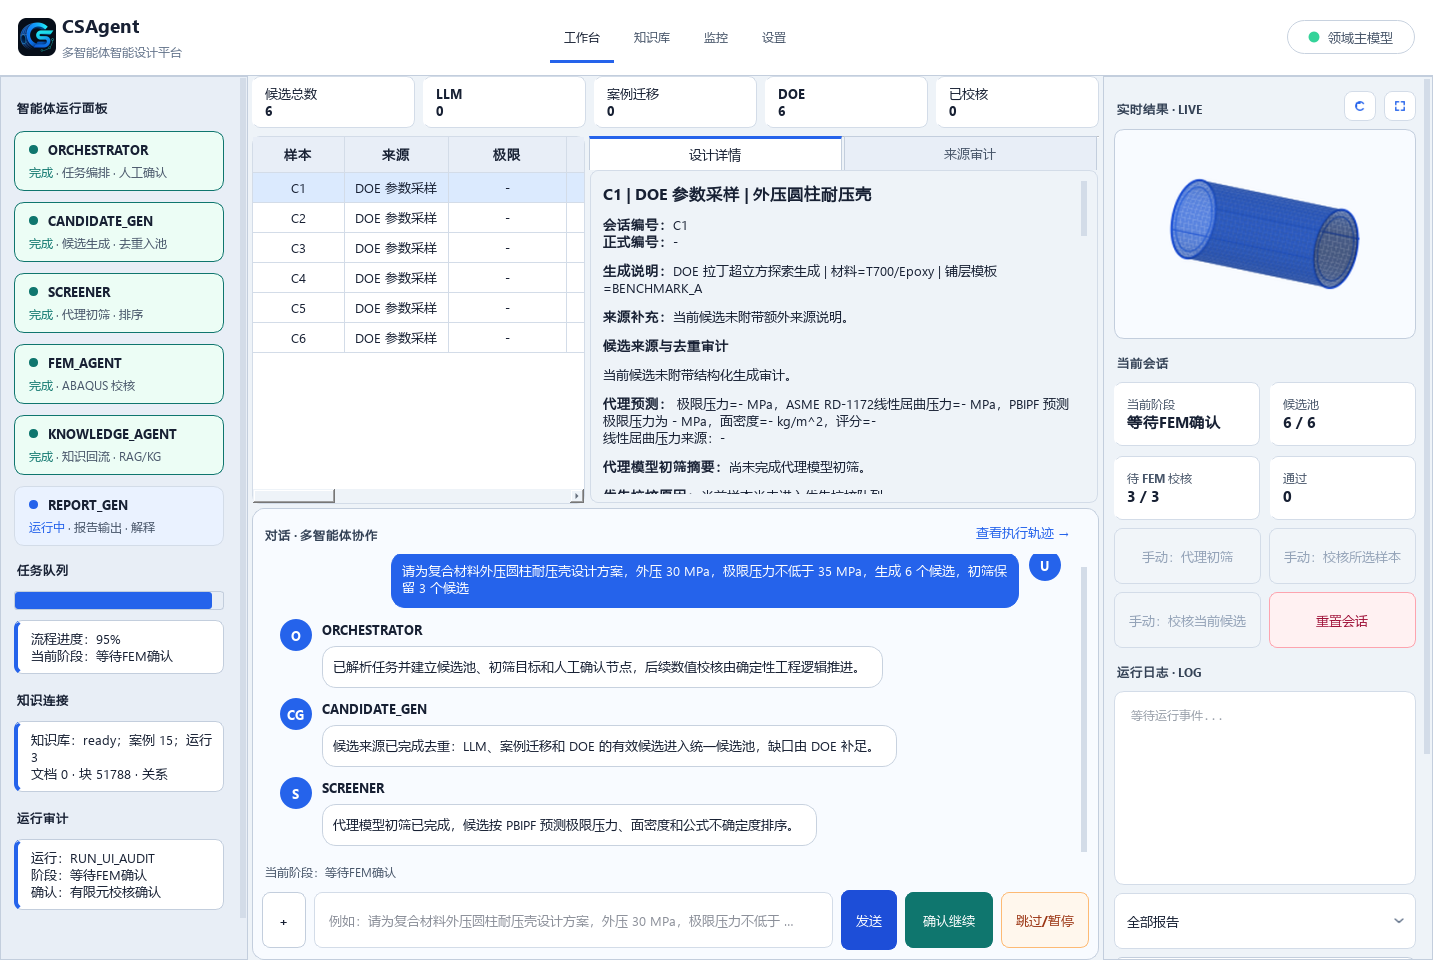
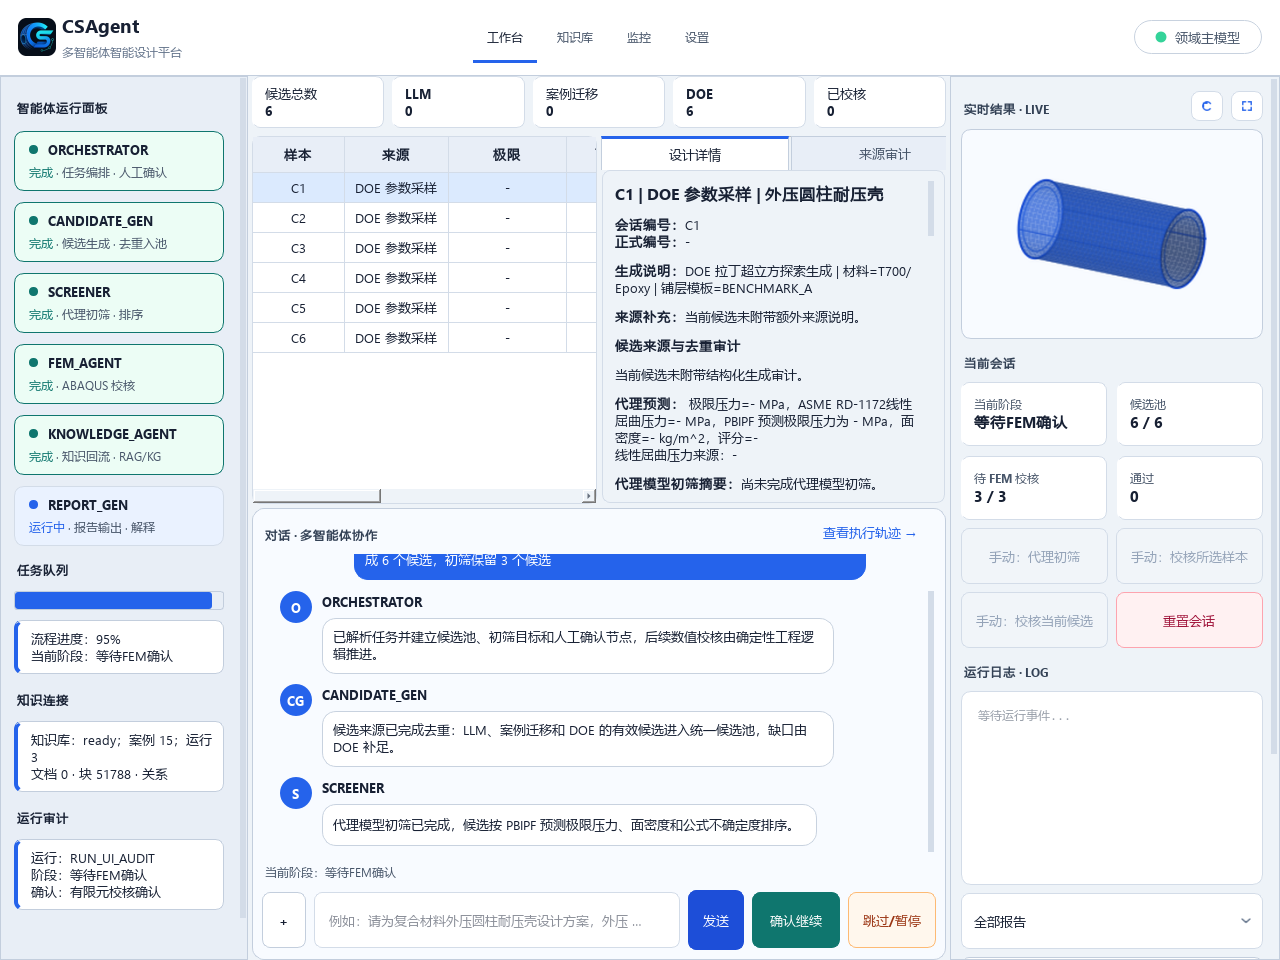
修复窗口拉伸与候选池空态布局

diff --git a/tests/test_main_window.py b/tests/test_main_window.py
@@ -13,6 +13,7 @@ from PyQt6.QtWidgets import QApplication, QFrame, QLabel, QLineEdit, QPushButton
 
 import gui.main_window as main_window_module
 from core.task_parser import TaskParser
+from gui.candidate_widget import CandidateWidget
 from gui.chat_widget import ChatWidget
 from gui.main_window import MainWindow
 from gui.theme import application_stylesheet
@@ -493,6 +494,50 @@ def test_restored_oversized_window_geometry_is_clamped(monkeypatch) -> None:
         assert window.width() / max(1, window.height()) <= 1.72
     finally:
         window.close()
+        app.processEvents()
+
+
+def test_main_window_requested_width_is_not_expanded_by_hidden_pages(monkeypatch) -> None:
+    monkeypatch.setenv("CSDM_cph_DISABLE_LLM_AUTO", "1")
+    app = _app()
+    window = MainWindow()
+    try:
+        requested_width = 1280
+        for index in range(len(window.nav_buttons)):
+            window._switch_workspace_page(index)
+            window.resize(requested_width, 960)
+            window.show()
+            app.processEvents()
+
+            assert window.stack.minimumSizeHint().width() <= 600
+            assert window.main_splitter.minimumSizeHint().width() <= requested_width
+            assert window.width() <= requested_width
+    finally:
+        window.close()
+        app.processEvents()
+
+
+def test_candidate_pool_empty_and_runtime_use_same_splitter_balance() -> None:
+    app = _app()
+    widget = CandidateWidget()
+    try:
+        widget.resize(760, 280)
+        widget.show()
+        app.processEvents()
+        empty_sizes = widget.splitter.sizes()
+
+        widget.update_candidates([_candidate(f"C{index}") for index in range(1, 7)])
+        app.processEvents()
+        runtime_sizes = widget.splitter.sizes()
+
+        for sizes in [empty_sizes, runtime_sizes]:
+            table_width, detail_width = sizes
+            assert table_width >= 260
+            assert detail_width >= 280
+            assert 0.8 <= table_width / max(1, detail_width) <= 1.25
+        assert abs(empty_sizes[0] - runtime_sizes[0]) <= 32
+    finally:
+        widget.close()
         app.processEvents()
 
 

diff --git a/gui/candidate_widget.py b/gui/candidate_widget.py
@@ -85,6 +85,7 @@ class CandidateWidget(QWidget):
         for column, width in enumerate([92, 104, 118, 100, 112, 118, 116, 98]):
             self.table.setColumnWidth(column, width)
         self.table.itemSelectionChanged.connect(self._refresh_detail)
+        self.table.setMinimumWidth(280)
         self.table.setSizePolicy(QSizePolicy.Policy.Expanding, QSizePolicy.Policy.Expanding)
 
         self.summary_label = QLabel(tr("candidate.empty", language=self.language))
@@ -117,6 +118,7 @@ class CandidateWidget(QWidget):
         self.detail_tabs.addTab(self.audit_browser, tr("candidate.tab.audit", language=self.language))
         self.detail_tabs.tabBar().setExpanding(True)
         self.detail_tabs.tabBar().setUsesScrollButtons(False)
+        self.detail_tabs.setMinimumWidth(300)
         self.detail_tabs.setMaximumHeight(300)
 
         splitter = QSplitter()
@@ -124,7 +126,9 @@ class CandidateWidget(QWidget):
         splitter.addWidget(self.detail_tabs)
         splitter.setChildrenCollapsible(False)
         splitter.setSizePolicy(QSizePolicy.Policy.Expanding, QSizePolicy.Policy.Expanding)
-        splitter.setSizes([820, 480])
+        splitter.setStretchFactor(0, 1)
+        splitter.setStretchFactor(1, 1)
+        splitter.setSizes([640, 640])
         self.splitter = splitter
 
         layout = QVBoxLayout(self)
@@ -252,7 +256,7 @@ class CandidateWidget(QWidget):
         self.table.setVisible(True)
         self.detail_tabs.setMaximumHeight(16777215)
         self.detail_tabs.setVisible(True)
-        self.splitter.setSizes([760, 540])
+        self.splitter.setSizes([640, 640])
         source_counter: dict[str, int] = {}
 
         for row, candidate in enumerate(self.candidates):

diff --git a/gui/main_window.py b/gui/main_window.py
@@ -16,7 +16,7 @@ PROJECT_ROOT = Path(__file__).resolve().parent.parent
 if str(PROJECT_ROOT) not in sys.path:
     sys.path.insert(0, str(PROJECT_ROOT))
 
-UI_LAYOUT_VERSION = 8
+UI_LAYOUT_VERSION = 9
 
 from PyQt6 import sip
 from PyQt6.QtCore import QObject, QRectF, QSettings, QSize, Qt, QThread, QUrl, pyqtSignal
@@ -241,6 +241,29 @@ class PipelineWorker(QObject):
                 "payload": payload or {},
             },
         )
+
+
+class CenterStackedWidget(QStackedWidget):
+    """中心页面栈只向主窗口暴露可控的最小尺寸。"""
+
+    MAX_MINIMUM_WIDTH = 600
+    MAX_MINIMUM_HEIGHT = 720
+
+    def minimumSizeHint(self) -> QSize:
+        current = self.currentWidget()
+        if current is None:
+            return QSize(0, 0)
+        hint = current.minimumSizeHint()
+        return QSize(
+            min(hint.width(), self.MAX_MINIMUM_WIDTH),
+            min(hint.height(), self.MAX_MINIMUM_HEIGHT),
+        )
+
+    def sizeHint(self) -> QSize:
+        current = self.currentWidget()
+        if current is None:
+            return super().sizeHint()
+        return current.sizeHint()
 
 
 class MainWindow(QMainWindow):
@@ -675,7 +698,7 @@ class MainWindow(QMainWindow):
         workbench_right.setMinimumWidth(330)
         workbench_right.setMaximumWidth(430)
 
-        self.stack = QStackedWidget()
+        self.stack = CenterStackedWidget()
         self.stack.setSizePolicy(QSizePolicy.Policy.Expanding, QSizePolicy.Policy.Ignored)
         self.stack.addWidget(workbench_page)
         self.stack.addWidget(self.knowledge_widget)
